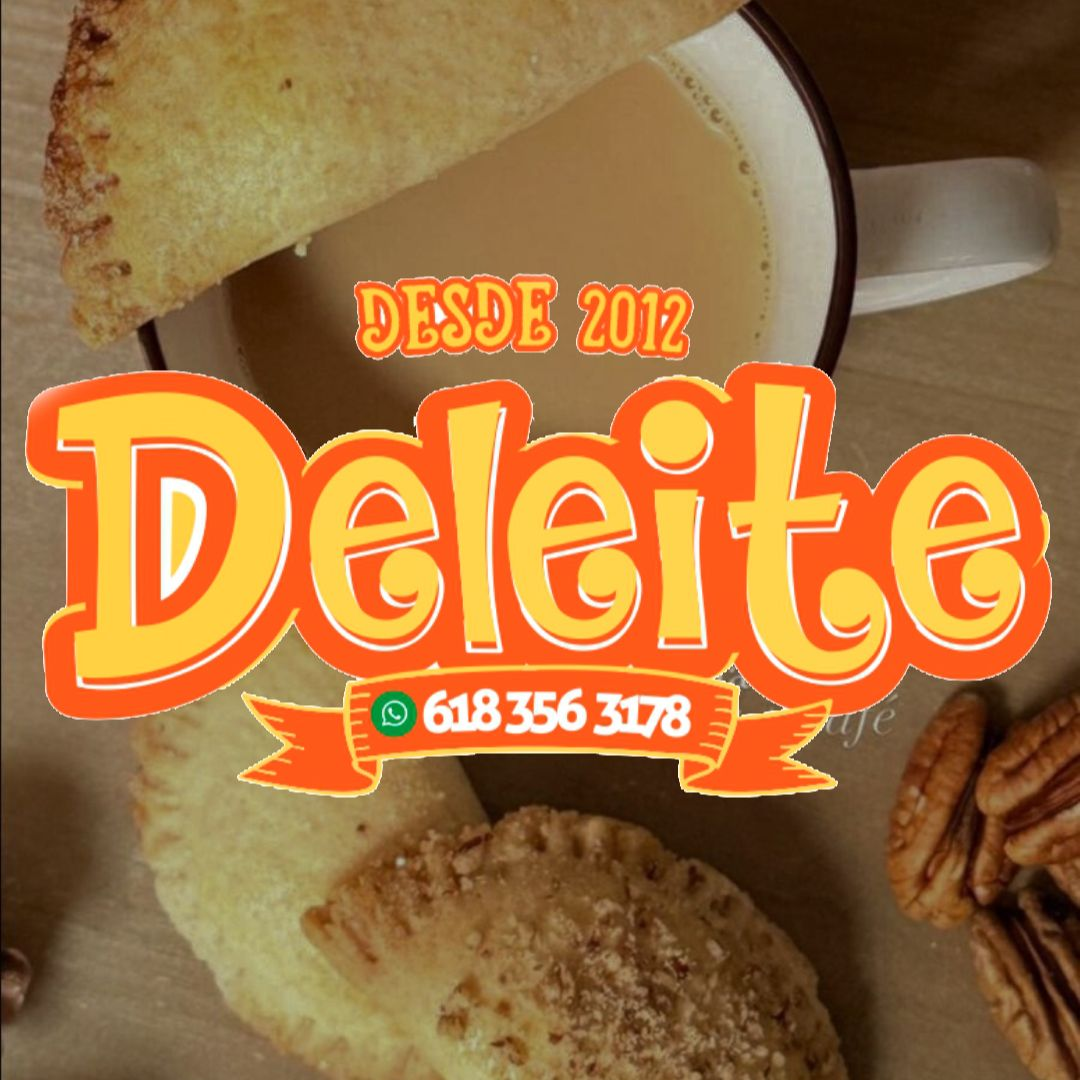
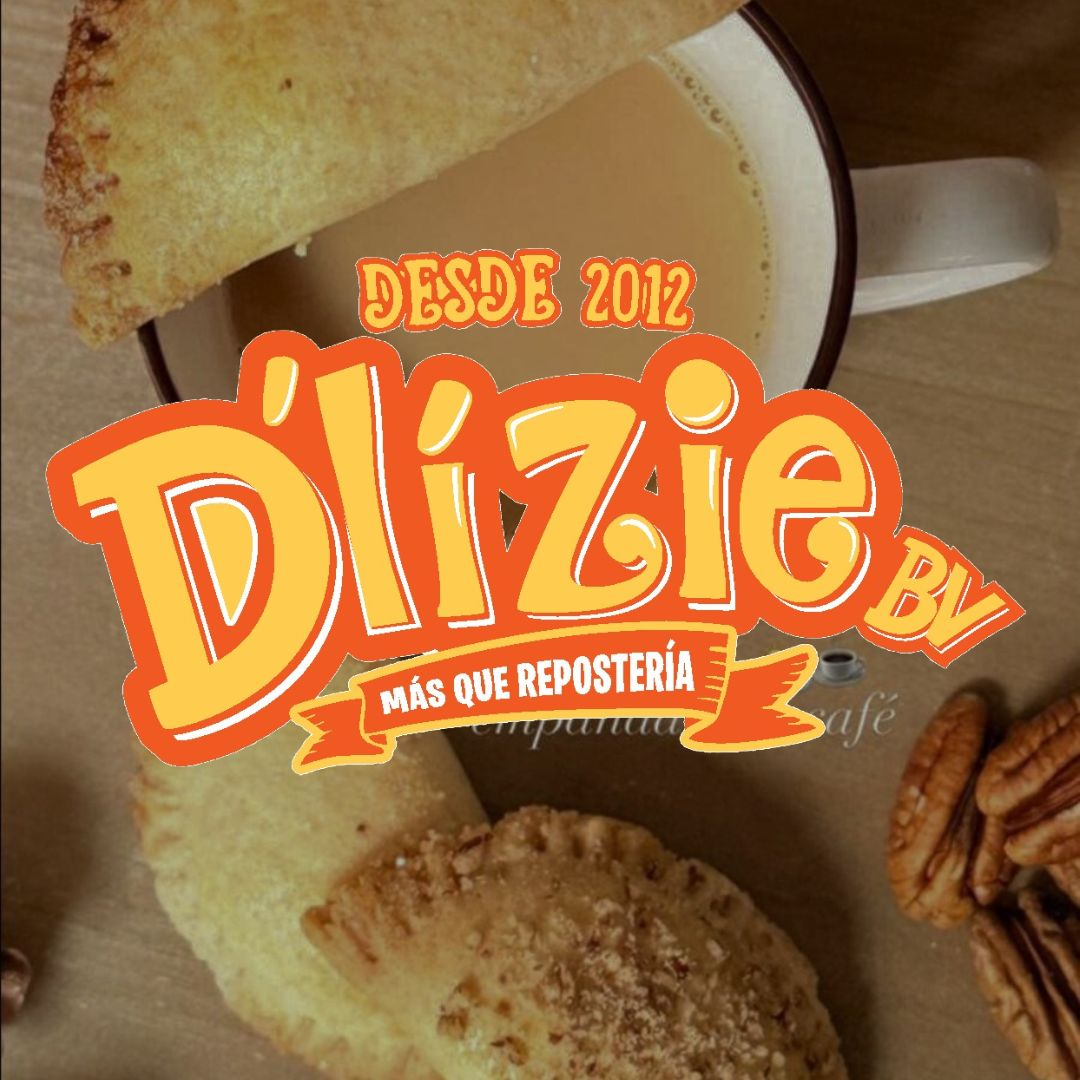
Add files via upload

Changed region(s): [[0.0, 0.2139, 0.9778, 0.7639]]

diff --git a/index3.html b/index3.html
@@ -139,7 +139,7 @@ $(document).ready(function(){
 </div>-->
     <section class="logo col-12">
                     <div class="row justify-content-center">
-                        <img class=" col-12 col-lg-5 ml-2 mt-4" src="img/logotipo.png">    
+                        <img class=" col-12 col-lg-5 ml-2 mt-4" src="img/logotipo2.png">    
                            
             </div>
             
@@ -194,11 +194,8 @@ $(document).ready(function(){
         </div>
         <h4 class="prox2 text-center text-md-center col-11 pt-0 mb-2 mt-3" style="background-color:white; height: 120px; margin:0 auto; display:flex; justify-content: center; align-items: center; border-radius: 30px; letter-spacing: 1px;"></i>¡CONOCE NUESTROS DEMÁS SABORES Y PRODUCTOS DANDO CLICK EN EL SIGUIENTE BOTÓN!</h4>
 
-        <div class="row justify-content-left" style="margin-left:-70px ; margin-top: -110px; z-index: -99;">
-                        <img class="empanada col-4 col-md-3 col-lg-2 ml-2" src="img/agua.png" >    
-                         
-            </div> 
-        <div class="row justify-content-center ml-0 text-lg-center text-center" style="margin: 0 auto; margin-bottom: 0px; margin-top: -150px;">
+       
+        <div class="row justify-content-center ml-0 text-lg-center text-center" style="margin: 0 auto; margin-bottom: 0px; margin-top: -40px;">
             <p style="font-size: 30px; color:#000"><i class="fa fa-arrow-down mt-5 mb-4 flecha"></i> </p>
             
     </div>
@@ -233,8 +230,8 @@ $(document).ready(function(){
                         <div class="col-12 ">
                             <p class="mt-2 text-center text-white" ><i class="fas fa-map-marker-alt mr-2" ></i> Dolores del Rio #102 B Norte. Entre Canoas y Aquiles Serdán 34075, Durango, Mex.</p>
                             <p class="mt-2 text-center text-white" ><i class="fab fa-whatsapp mr-2" ></i> (618) 356 3178</p>
-                            <p class="mt-2 text-center text-white" ><i class="fab fa-facebook mr-2" ></i> Deleite</p>
-                            <p class="mt-2 text-center text-white" ><i class="fa fa-instagram mr-2" ></i> dele.itee</p>
+                           <!-- <p class="mt-2 text-center text-white" ><i class="fab fa-facebook mr-2" ></i> Deleite</p>
+                            <p class="mt-2 text-center text-white" ><i class="fa fa-instagram mr-2" ></i> dele.itee</p>!-->
                             
                         </div>
                 </div>

diff --git a/index2.html b/index2.html
@@ -139,7 +139,7 @@ $(document).ready(function(){
 </div>-->
     <section class="logo col-12">
                     <div class="row justify-content-center">
-                        <img class=" col-12 col-lg-5 ml-2 mt-4" src="img/logotipo.png">    
+                        <img class=" col-12 col-lg-5 ml-2 mt-4" src="img/logotipo2.png">    
                            
             </div>
             
@@ -234,8 +234,8 @@ $(document).ready(function(){
             <img class="titulo col-10 col-lg-4 ml-2 mt-0" src="img/tamarindo.png" > 
           
         </div>
-        <div class="row justify-content-center" style="margin: 0 auto; margin-bottom: 200px;">
-                        <img class="empanada col-9 col-md-8 col-lg-5" src="img/aguas.png" >    
+        <div class="row justify-content-center mt-4" style="margin: 0 auto; margin-bottom: 180px;">
+                        <img class="empanada col-9 col-md-8 col-lg-5" src="img/logotipo2.png" >    
                          
             </div> 
     
@@ -265,8 +265,8 @@ $(document).ready(function(){
                         <div class="col-12 ">
                             <p class="mt-2 text-center text-white" ><i class="fas fa-map-marker-alt mr-2" ></i> Dolores del Rio #102 B Norte. Entre Canoas y Aquiles Serdán 34075, Durango, Mex.</p>
                             <p class="mt-2 text-center text-white" ><i class="fab fa-whatsapp mr-2" ></i> (618) 356 3178</p>
-                            <p class="mt-2 text-center text-white" ><i class="fab fa-facebook mr-2" ></i> Deleite</p>
-                            <p class="mt-2 text-center text-white" ><i class="fa fa-instagram mr-2" ></i> dele.itee</p>
+                            <!--<p class="mt-2 text-center text-white" ><i class="fab fa-facebook mr-2" ></i> Deleite</p>
+                            <p class="mt-2 text-center text-white" ><i class="fa fa-instagram mr-2" ></i> dele.itee</p>!-->
                             
                         </div>
                 </div>

diff --git a/index.html b/index.html
@@ -57,14 +57,14 @@ $(document).ready(function(){
 </head>
 <body>
     <div class="loader_bg">
-    <div class="loader"><img class="col-12 col-lg-9" src="img/logotipo.png"></div>
+    <div class="loader"><img class="col-12 col-lg-9" src="img/logotipo2.png"></div>
      <div class="progress">
         <div class="loading-bar indeterminate" ng-style="{'background-color': view.code.color1 || view.color1}"></div>
     </div>
 </div>
     <section class="logo col-12">
                     <div class="row justify-content-center">
-                        <img class=" col-12 col-lg-5 ml-2" src="img/logotipo.png">    
+                        <img class=" col-12 col-lg-5 ml-2" src="img/logotipo2.png">    
                          <h5 class='col-12 col-lg-12 mb-4 mt-1 ml-4 text-center' id="barraFria">Menú Digital <li class="fa fa-wifi"></li>
         </h5>              
             </div>
@@ -256,9 +256,9 @@ $(document).ready(function(){
                         <li><i class=" fas fa-map-marker-alt mr-1 text-center"></i>Dolores del Rio #102 B Norte. Entre Canoas y Aquiles Serdán, 34075</li>
                     <h5 class="">Victoria de Durango, México</h5>
                     <li><i class="fa fa-phone-square-alt mr-1"></i>(618) 356 3178</li>
-                            <li><i class="fab fa-whatsapp mr-1"></i>(618) 356 3178</li>
-                            <li><i class="fab fa-facebook-square mr-1"></i>Deleite</li>
-                            <li><i class="fab fa-instagram mr-1 mb-5"></i>dele.itee</li>
+                            <li><i class="fab fa-whatsapp mr-1 mb-5"></i>(618) 356 3178</li>
+                           <!-- <li><i class="fab fa-facebook-square mr-1"></i>Deleite</li>
+                            <li><i class="fab fa-instagram mr-1 mb-5"></i>dele.itee</li>!-->
                     </ul>
             
                    
